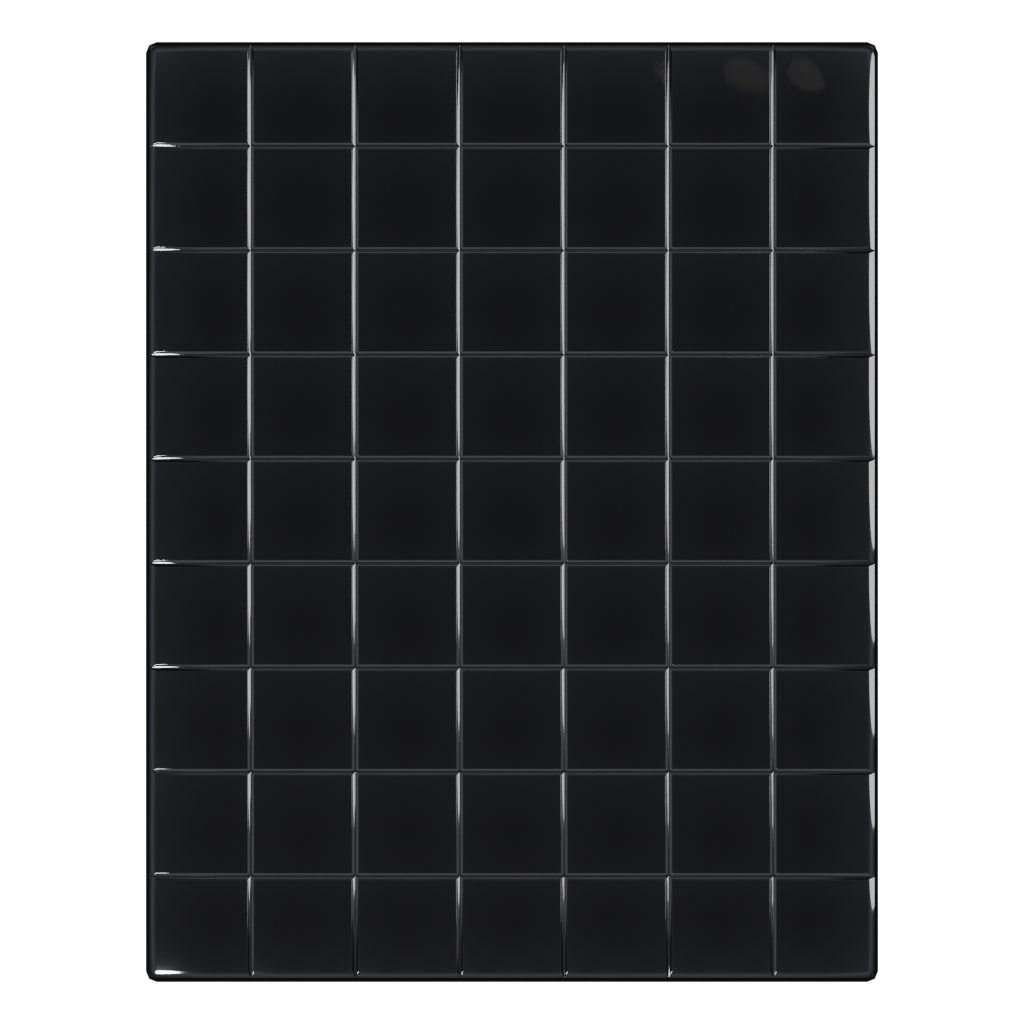
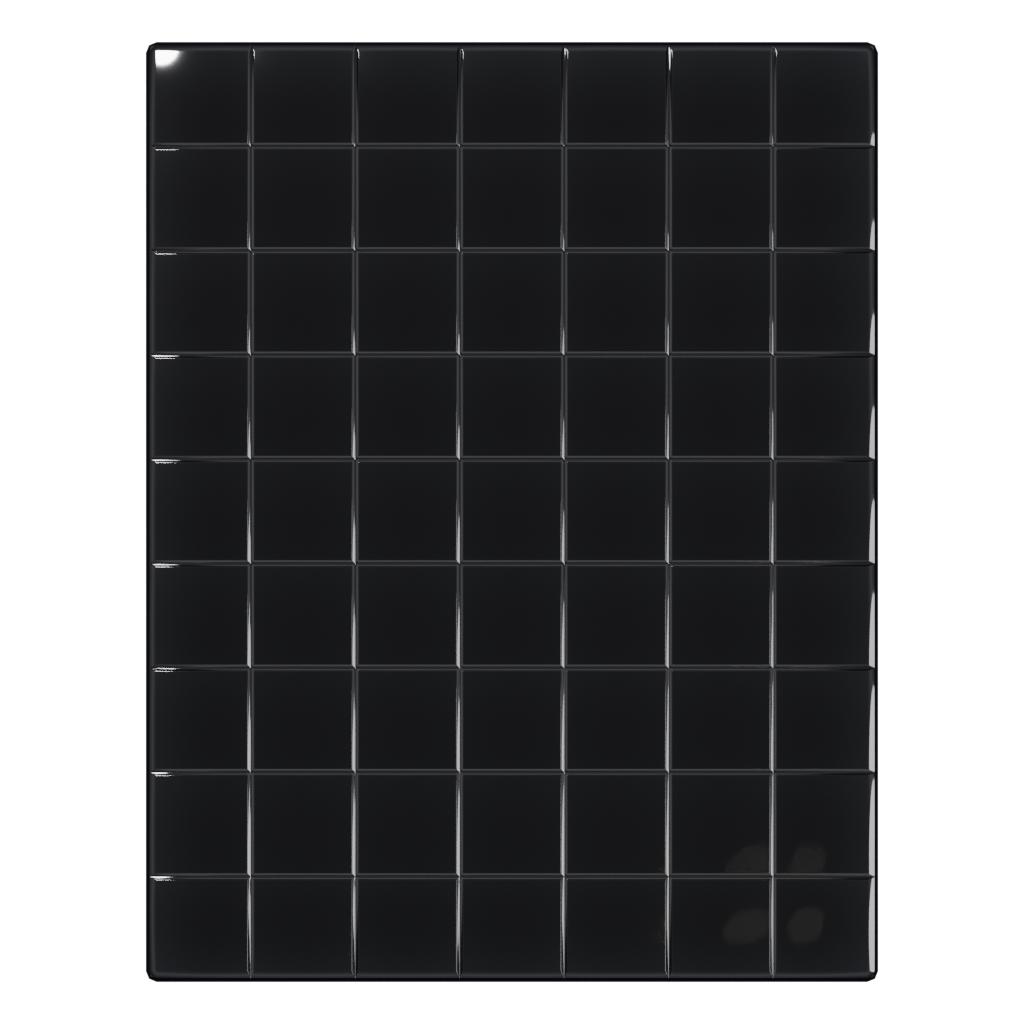
Light the board from where the items are lit, in screen terms
Reusing the studio's lamp POSITIONS did not reproduce their apparent
direction. The item camera looks from 225 degrees at 26 of elevation
and the board's looks straight down, so the same lamp that reads as
upper-left through the first reads as lower-left through the second -
the board had a lit edge under every cell while the objects standing
on it cast down and to the right.

Mirrored in y, which on a top-down camera brings them round to the
upper left, where every drawn surface in this game is lit from.

diff --git a/src/game/objects/itemSprites.ts b/src/game/objects/itemSprites.ts
@@ -135,7 +135,7 @@ export function itemSpriteKey(typeId: string, tier: number): string {
  * A version in the query string makes the URL new, so every client refetches
  * once and then caches again normally.
  */
-export const ITEM_ART_VERSION = 53;
+export const ITEM_ART_VERSION = 54;
 
 /** Where the renderer writes it, relative to `public/`. */
 export function itemSpritePath(typeId: string, tier: number): string {

diff --git a/tools/blender/render_items.py b/tools/blender/render_items.py
@@ -3297,10 +3297,28 @@ def render_board():
     # how much of it there is - so the lamps keep their positions and
     # lose most of their power. A sheet this size under lamps sized
     # for a thing you could hold came back as light grey tile.
+    # MATCHED IN SCREEN TERMS, not in world coordinates.
+    #
+    # Reusing the studio's lamp POSITIONS does not reproduce their
+    # apparent direction: the item camera looks from 225 degrees at 26
+    # of elevation and this one looks straight down, so the same lamp
+    # that reads as upper-left through the first reads as lower-left
+    # through the second. The board came back with a lit edge under
+    # every cell while the objects standing on it cast down and right.
+    #
+    # A top-down camera has world -x to the left and +y up the screen,
+    # so the lamps are mirrored in y to bring them round to the upper
+    # left, which is where every drawn surface in this game is lit
+    # from.
     for name in ("KeyLight", "FillLight"):
         lamp = bpy.data.objects.get(name)
-        if lamp is not None:
-            lamp.data.energy *= BOARD_LIGHT_SCALE
+        if lamp is None:
+            continue
+        lamp.data.energy *= BOARD_LIGHT_SCALE
+        x, y, z = lamp.location
+        lamp.location = (x, -y, z)
+        lamp.rotation_euler = (
+            -Vector(lamp.location)).to_track_quat('-Z', 'Y').to_euler()
     # THE WORLD COMES DOWN WITH THEM. Lamp energy does not touch the
     # sky, and a coat mirrors the sky as readily as it mirrors a lamp -
     # dimming only the lamps bottomed the board out at #303237 however
